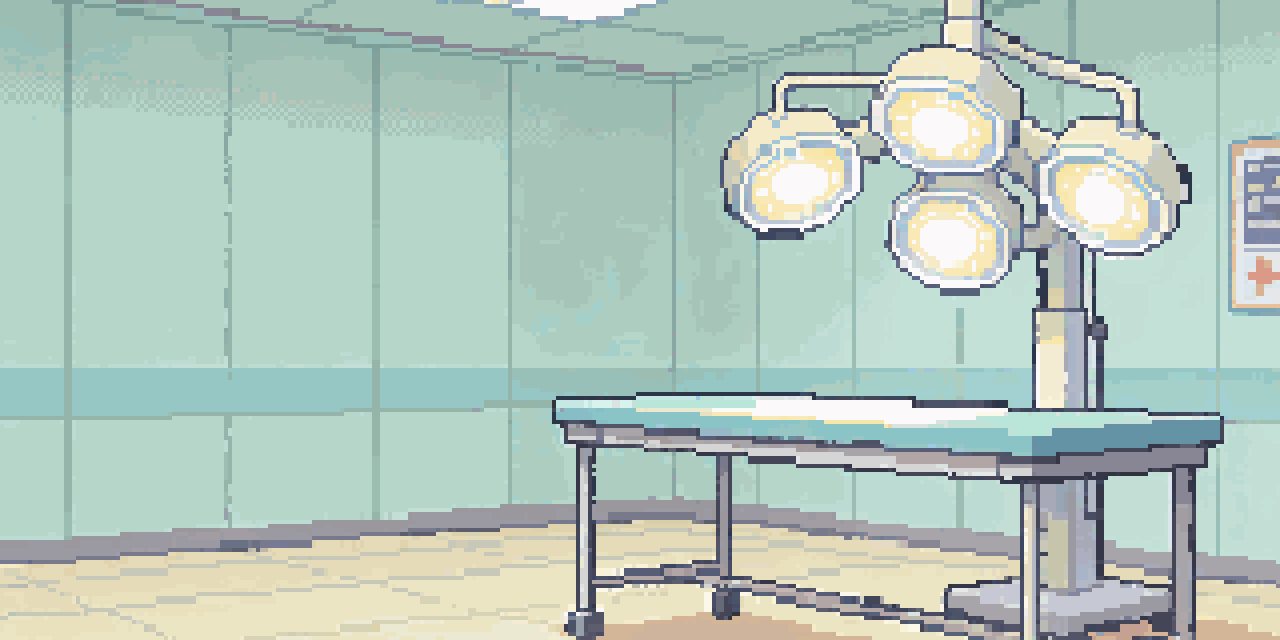
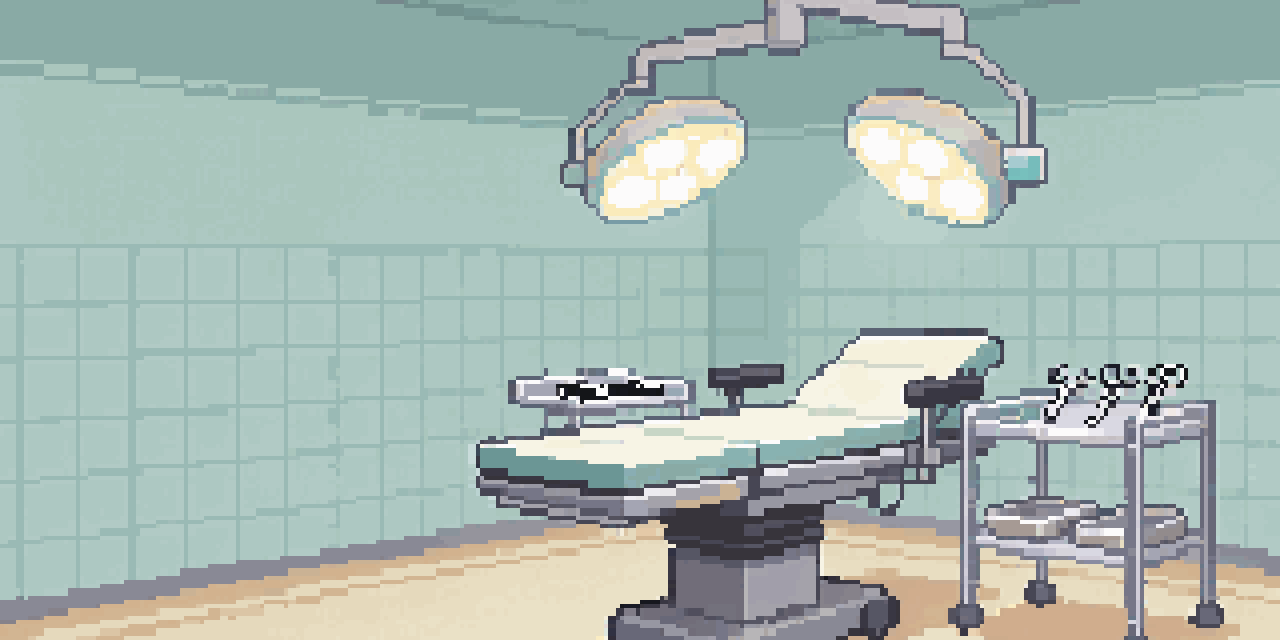
Ken Burns pan + parallax + color grading per scene

diff --git a/src/components/HospitalScene.jsx b/src/components/HospitalScene.jsx
@@ -84,33 +84,50 @@ export default function HospitalScene({ depth = 0, maxDepth = 2500 }) {
     return () => { cancelled = true }
   }, [])
 
-  // Draw an image with cover-fit, parallax offset, and subtle breathing zoom
+  // Draw scene image with Ken Burns pan, parallax, and depth
   const drawCover = useCallback((ctx, img, w, h, alpha, t) => {
     if (!img || alpha <= 0) return
     const imgAspect = img.width / img.height
     const canvasAspect = w / h
+    const time = (t || 0) * 0.001
 
-    // Subtle breathing zoom (1.02 - 1.05 scale, slow)
-    const breath = 1.03 + 0.02 * Math.sin((t || 0) * 0.0008)
+    // Ken Burns: slow pan across the image (creates life)
+    const panX = Math.sin(time * 0.15) * 20
+    const panY = Math.cos(time * 0.1) * 12
 
-    // Parallax shift based on mouse/touch (subtle, +-15px)
-    const mx = (mouseRef.current.x - 0.5) * 30
-    const my = (mouseRef.current.y - 0.5) * 20
+    // Breathing zoom (slow, subtle)
+    const breath = 1.08 + 0.04 * Math.sin(time * 0.5)
+
+    // Mouse/touch parallax (stronger than before)
+    const mx = (mouseRef.current.x - 0.5) * 40
+    const my = (mouseRef.current.y - 0.5) * 25
 
     let dw, dh, dx, dy
     if (canvasAspect > imgAspect) {
       dw = w * breath
       dh = (w / imgAspect) * breath
-      dx = (w - dw) / 2 + mx
-      dy = (h - dh) / 2 + my
     } else {
       dh = h * breath
       dw = (h * imgAspect) * breath
-      dx = (w - dw) / 2 + mx
-      dy = (h - dh) / 2 + my
     }
+    dx = (w - dw) / 2 + mx + panX
+    dy = (h - dh) / 2 + my + panY
+
     ctx.globalAlpha = alpha
     ctx.drawImage(img, dx, dy, dw, dh)
+
+    // Color grading overlay per scene (warm for lobby, cool for ICU, etc.)
+    const idx = getSceneIndex(depthRef.current)
+    const overlays = [
+      'rgba(20, 30, 60, 0.15)',   // exterior: cool blue night
+      'rgba(60, 40, 20, 0.1)',    // lobby: warm amber
+      'rgba(10, 40, 40, 0.12)',   // ward: teal
+      'rgba(10, 10, 30, 0.2)',    // icu: dark blue
+      'rgba(5, 5, 15, 0.25)',     // or: near black
+    ]
+    ctx.fillStyle = overlays[idx] || 'rgba(0,0,0,0)'
+    ctx.fillRect(0, 0, w, h)
+
     ctx.globalAlpha = 1
   }, [])
 
